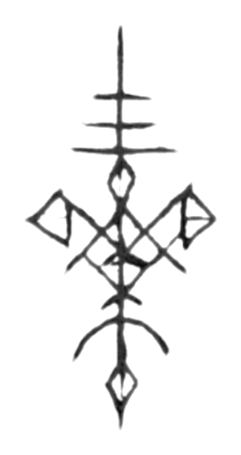
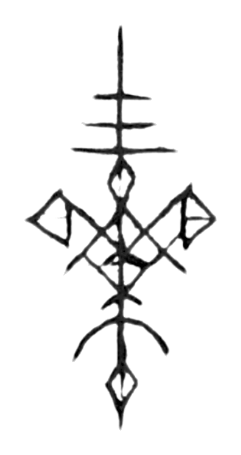
Tighten Book One’s closing band and crisp the home hero glyph.
Reduce final black-band air and display the glyph nearer native size with denser ink so soft edges read cleaner on retina.

diff --git a/styles/cleanroom.css b/styles/cleanroom.css
@@ -404,35 +404,39 @@ a.text-link--pending {
 .hero__glyph {
   margin: 0;
   justify-self: end;
-  width: min(36vw, 200px);
-  max-height: min(58vh, 420px);
+  /* Native glyph is ~241px wide — keep CSS size near half for crisp 2x retina */
+  width: min(28vw, 118px);
+  max-height: min(42vh, 230px);
   overflow: visible;
 }
 
 .hero__glyph img {
   width: 100%;
   height: auto;
-  max-height: min(58vh, 420px);
+  max-height: min(42vh, 230px);
   object-fit: contain;
   object-position: top center;
+  /* Ink seal: denser line, less soft wash — no glow */
+  filter: contrast(1.14) brightness(0.94);
+  opacity: 0.92;
 }
 
 @media (min-width: 900px) {
   .hero__grid {
-    grid-template-columns: minmax(0, 1.2fr) minmax(160px, 0.55fr);
+    grid-template-columns: minmax(0, 1.2fr) minmax(120px, 0.42fr);
     gap: 4rem;
     align-items: start;
   }
 
   .hero__glyph {
-    width: min(100%, 240px);
-    margin-top: 0;
+    width: min(100%, 132px);
+    margin-top: 0.35rem;
     transform: none;
-    max-height: min(62vh, 480px);
+    max-height: min(48vh, 260px);
   }
 
   .hero__glyph img {
-    max-height: min(62vh, 480px);
+    max-height: min(48vh, 260px);
   }
 }
 
@@ -2050,8 +2054,8 @@ a.text-link--pending {
 }
 
 .book-quote-register--final {
-  padding-top: clamp(3.25rem, 7vw, 5.5rem);
-  padding-bottom: clamp(3.25rem, 7vw, 5.5rem);
+  padding-top: clamp(1.6rem, 3.2vw, 2.5rem);
+  padding-bottom: clamp(1.6rem, 3.2vw, 2.5rem);
 }
 
 .book-quote {
@@ -2174,13 +2178,13 @@ a.text-link--pending {
   display: grid;
   justify-items: center;
   text-align: center;
-  gap: 2.75rem;
+  gap: 1.35rem;
   max-width: none;
   margin: 0 auto;
 }
 
 .book-quote--final blockquote p {
-  font-size: clamp(1.75rem, 4vw, 3rem);
+  font-size: clamp(1.55rem, 3.4vw, 2.5rem);
   max-width: 14ch;
   margin-inline: auto;
 }

diff --git a/components/site/pages/home.tsx b/components/site/pages/home.tsx
@@ -15,10 +15,10 @@ export default function PageMain() {
           </div>
           <figure className="hero__glyph">
             <img
-              src="/assets/glyphs/glyph_01.png"
+              src="/assets/glyphs/glyph_01.png?v=ink1"
               alt=""
-              width={420}
-              height={720}
+              width={241}
+              height={455}
               decoding="async"
             />
             <figcaption className="sr-only">Authored glyph</figcaption>
